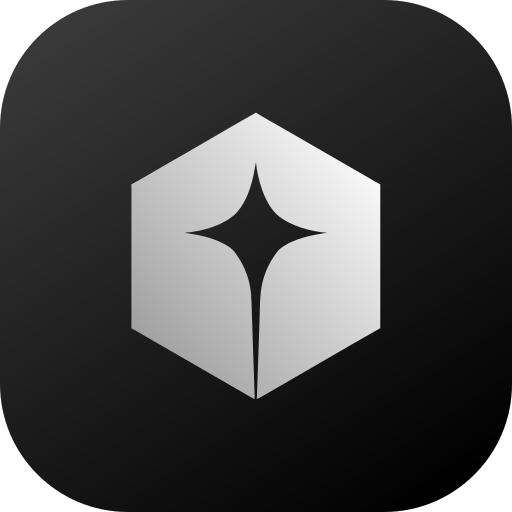
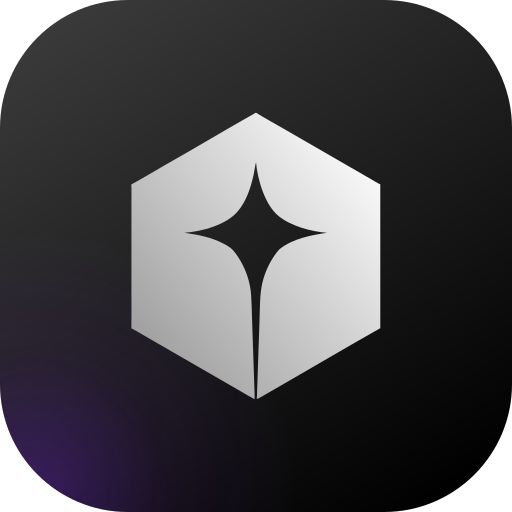
feat(marca): brilho roxo suave no canto do icone
Um detalhe na cor do app no canto de baixo a esquerda do quadrado preto,
fraco o bastante para so tingir o canto. Cache do service worker em mb-v4.

Changed region(s): [[0.0, 0.7188, 0.3125, 1.0]]

diff --git a/public/sw.js b/public/sw.js
@@ -23,11 +23,11 @@
  * engano — o CACHE abaixo é limpo no activate de qualquer forma.
  */
 
-/* Sobe a cada troca de ícone (v2: logo nova; v3: fundo em degradê preto).
+/* Sobe a cada troca de ícone (v2: logo nova; v3: fundo em degradê preto; v4: brilho roxo).
    Os ícones vêm do aparelho primeiro, então trocar o desenho sem trocar o
    nome do cache deixaria o antigo para sempre; o activate apaga todo cache
    com nome diferente deste. Ver scripts/gerar-icones.mjs. */
-const CACHE = "mb-v3";
+const CACHE = "mb-v4";
 const OFFLINE = "/offline.html";
 
 /*

diff --git a/public/offline.html b/public/offline.html
@@ -61,7 +61,9 @@
         height: 52px;
         margin: 0 auto 18px;
         border-radius: 15px;
-        background: linear-gradient(150deg, #3a3a3a, #000000);
+        background:
+          radial-gradient(circle at 7% 96%, rgba(126, 40, 231, 0.34), rgba(126, 40, 231, 0.08) 26%, transparent 52%),
+          linear-gradient(150deg, #3a3a3a, #000000);
       }
       .marca svg {
         width: 26px;
